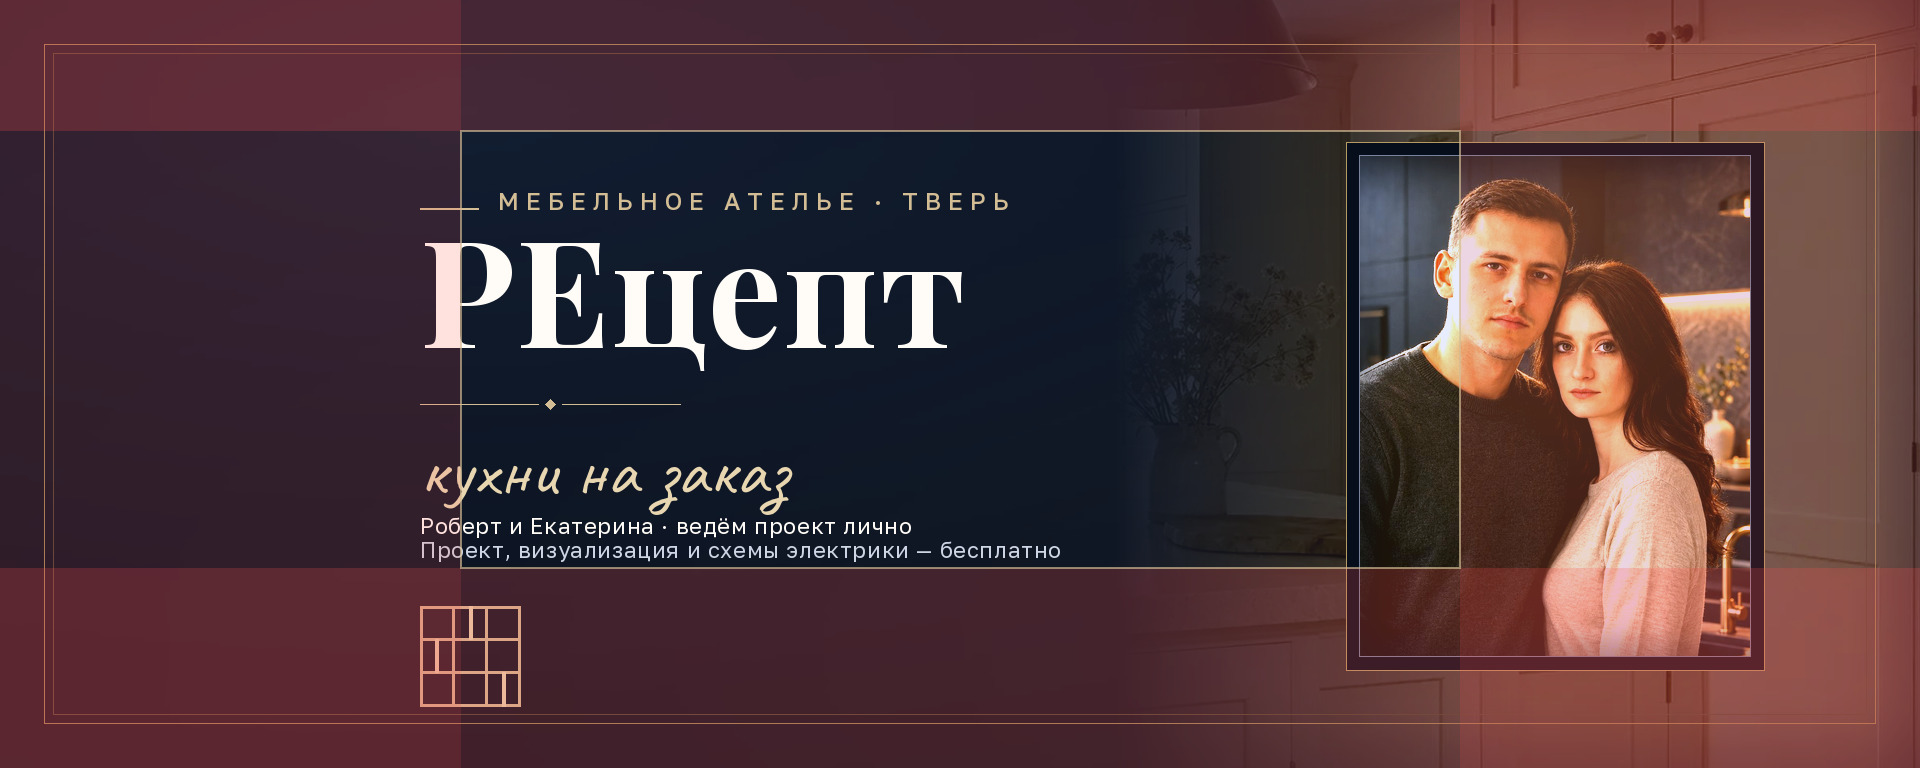
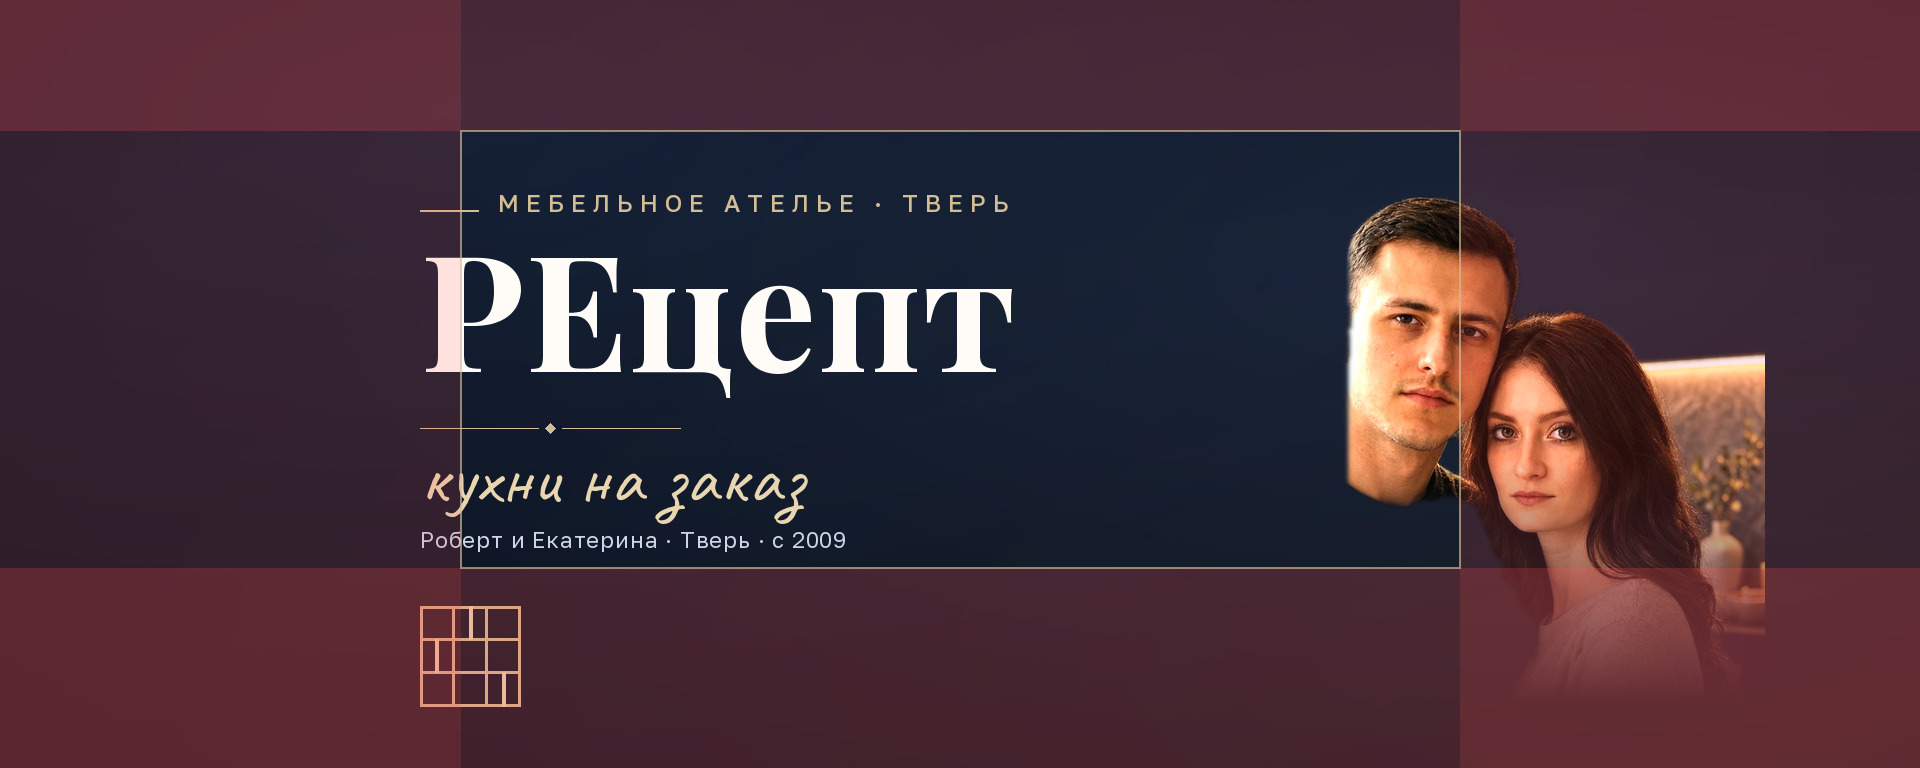
Обложка: вы вписаны в поле, без рамки и пластины
Прямоугольная пластина с золотым кантом читалась как вклеенная наклейка.
Теперь вы вырезаны из фона и стоите прямо в поле: силуэт книзу раство-
ряется, а не обрезается краем холста. Замер низа — 24,5 против 84 на
головах: вы действительно уходите в поле, а не стоите на нём плашкой.

Фон вырезается GrabCut (tools/cutout.py). Сегментационные модели в этой
песочнице недоступны — их раздают с закрытых хостов, — поэтому режем
алгоритмически и чистим маску морфологией. Контроль качества: внутри
маски яркость 98, снаружи 22.

Обложка разгружена. Было шесть текстовых элементов, осталось четыре:
надзаголовок, «РЕцепт» плотной антиквой крупнее прежнего (162 вместо
148), рукописная строка и одна подпись. Обложка в ВК показывается
мелко, поэтому 22-й кегль с гарантиями там не читался вовсе.

За вами добавлен холодный ореол — он отделяет фигуры от поля без вся-
кой рамки. Поле вокруг остаётся глубоким: 19–37 по яркости.

diff --git a/tools/make_pack.py b/tools/make_pack.py
@@ -408,51 +408,47 @@ def make_cover():
 
     base = ink_field((w, h))
 
-    # кухня остаётся фоном: приглушённая, вплавляется в поле слева направо
-    snap = photo('kitchens/kitchen-11@2x.webp', (w, h), bright=0.62, focus=(0.62, 0.45))
-    snap = grade(snap, contrast=1.14, color=1.06)
-    snap = vignette(snap, strength=0.34)
-    base.paste(snap, (0, 0), fade_mask((w, h), start=0.58, end=0.80, power=1.0))
+    # холодный ореол за фигурами — отделяет вас от поля, не рисуя рамки
+    base = warm_glow(base, cx=0.78, cy=0.34, color=(58, 74, 116), strength=0.22, falloff=3.0)
 
-    # вы — вклеенная пластина справа: тёмное паспарту и золотой волосяной кант
-    pw, ph = 390, 500
-    px, py = 1360, 156
-    mount = 14
-    plate = photo('team/new/rob-kate-novye.jpg', (pw, ph), bright=1.5, focus=(0.5, 0.26))
-    plate = grade(plate, contrast=1.16, color=1.08)
-    plate = warm_glow(plate, cx=0.5, cy=0.12, color=(255, 206, 140), strength=0.20, falloff=2.4)
-    plate = vignette(plate, strength=0.14)
-    base.paste(Image.new('RGB', (pw + mount * 2, ph + mount * 2), ABYSS),
-               (px - mount, py - mount))
-    base.paste(plate, (px, py))
+    # вы вписаны в обложку: ни пластины, ни рамки. Фигура стоит в поле и
+    # книзу растворяется в нём, а не обрезается краем холста.
+    cut = Image.open(os.path.join(SRC, 'team/new/rob-kate-novye-bez-fona.png')).convert('RGBA')
+    scale = 0.714
+    cw, ch = int(cut.width * scale), int(cut.height * scale)
+    cut = cut.resize((cw, ch), Image.LANCZOS)
+    cut_rgb = ImageEnhance.Brightness(cut.convert('RGB')).enhance(1.35)
+    cut_rgb.putalpha(cut.getchannel('A'))
+    cut = cut_rgb
+
+    top = 95
+    left = 1217
+    fade_from, fade_to = 460, 700          # в координатах холста
+    melt = ImageChops.invert(vertical_fade((cw, ch),
+                                           start=(fade_from - top) / ch,
+                                           end=(fade_to - top) / ch, power=1.0))
+    cut.putalpha(ImageChops.multiply(cut.getchannel('A'), melt))
+    base.paste(cut, (left, top), cut)
 
     d = ImageDraw.Draw(base)
 
-    # кант пластины: золото по внешнему краю, холодная нить по самому кадру
-    d.rectangle([px - mount, py - mount, px + pw + mount, py + ph + mount],
-                outline=GOLDLINE, width=1)
-    d.rectangle([px - 1, py - 1, px + pw, py + ph], outline=(120, 132, 158), width=1)
-
-    inner_frame(d, w, h, 44, GOLDLINE, width=1)
-
     # надзаголовок с золотым штрихом слева — как на сайте
-    rule(d, x_text, x_text + 58, 208, GOLD_ON_DARK, 1)
-    draw_text(d, (x_text + 78, 210), 'МЕБЕЛЬНОЕ АТЕЛЬЕ · ТВЕРЬ', 'sans-medium', 24,
+    rule(d, x_text, x_text + 58, 210, GOLD_ON_DARK, 1)
+    draw_text(d, (x_text + 78, 212), 'МЕБЕЛЬНОЕ АТЕЛЬЕ · ТВЕРЬ', 'sans-medium', 24,
               GOLD_ON_DARK, tracking=7)
 
-    # плотная антиква — основа, рукописная строка — её противоположность
-    draw_text(d, (x_text, 348), BRAND, 'display', 148, CREAM, tracking=1)
+    # обложка читается мелко и быстро, поэтому здесь только крупное:
+    # плотная антиква и одна рукописная строка ей в противовес
+    draw_text(d, (x_text, 372), BRAND, 'display', 162, CREAM, tracking=1)
 
-    ornament_rule(d, x_text, 404, 260, GOLD_ON_DARK, diamond=5)
+    ornament_rule(d, x_text, 428, 260, GOLD_ON_DARK, diamond=5)
 
-    draw_text(d, (x_text, 494), 'кухни на заказ', 'script', 72, GOLD_LIGHT, tracking=1)
+    draw_text(d, (x_text, 502), 'кухни на заказ', 'script', 74, GOLD_LIGHT, tracking=1)
 
-    draw_text(d, (x_text, 534), 'Роберт и Екатерина · ведём проект лично',
-              'sans', 22, CREAM, tracking=0.6)
-    draw_text(d, (x_text, 558), 'Проект, визуализация и схемы электрики — бесплатно',
-              'sans', 22, CREAM_DIM, tracking=0.6)
+    draw_text(d, (x_text, 548), 'Роберт и Екатерина · Тверь · с 2009',
+              'sans', 22, CREAM_DIM, tracking=0.8)
 
-    # знак справа, в зоне фотографии
+    # знак — внизу слева, в поле: он больше не спорит с портретом
     draw_mark(d, (x_text, 606, x_text + 100, 706), color=GOLDSOFT, accent=GOLD_LIGHT, lw=3)
 
     save(base, os.path.join(OUT, '01-oblozhka', 'oblozhka-1920x768.jpg'))

diff --git a/tools/cutout.py b/tools/cutout.py
@@ -1,0 +1,91 @@
+#!/usr/bin/env python3
+# -*- coding: utf-8 -*-
+"""
+ВЫРЕЗАНИЕ ФОНА (GrabCut)
+========================
+Модели сегментации в этой песочнице недоступны — они скачиваются с хостов,
+которые закрыты. Поэтому режем по-старому: GrabCut из OpenCV плюс чистка
+маски морфологией. Результат — PNG с альфой, дальше обложка сама решает,
+куда и как его вписывать.
+
+    python3 tools/cutout.py
+"""
+
+import os
+import sys
+
+import cv2
+import numpy as np
+from PIL import Image
+
+ROOT = os.path.dirname(os.path.dirname(os.path.abspath(__file__)))
+SRC = os.path.join(ROOT, 'tools', 'src')
+
+# Прямоугольник-подсказка: примерно где стоят люди. Всё, что уверенно фон
+# (левые и верхние углы кадра), GrabCut помечает сам.
+HINT = {
+    'team/new/rob-kate-novye.jpg': (0.24, 0.07, 1.0, 1.0),
+}
+
+
+def grab(name, hint=None):
+    path = os.path.join(SRC, name)
+    bgr = cv2.imread(path, cv2.IMREAD_COLOR)
+    if bgr is None:
+        raise SystemExit(f'не открылось: {path}')
+    h, w = bgr.shape[:2]
+
+    if hint is None:
+        hint = HINT.get(name, (0.12, 0.06, 0.88, 0.98))
+    x0 = int(w * hint[0]); y0 = int(h * hint[1])
+    x1 = int(w * hint[2]); y1 = int(h * hint[3])
+    rect = (max(0, x0), max(0, y0), min(w, x1) - max(0, x0), min(h, y1) - max(0, y0))
+
+    mask = np.zeros((h, w), np.uint8)
+    bgd = np.zeros((1, 65), np.float64)
+    fgd = np.zeros((1, 65), np.float64)
+
+    # несколько проходов: первый черновой, дальше алгоритм уточняет границу
+    for _ in range(4):
+        cv2.grabCut(bgr, mask, rect, bgd, fgd, 3, cv2.GC_INIT_WITH_RECT)
+        cv2.grabCut(bgr, mask, None, bgd, fgd, 3, cv2.GC_INIT_WITH_MASK)
+
+    alpha = np.where((mask == cv2.GC_FGD) | (mask == cv2.GC_PR_FGD), 255, 0).astype(np.uint8)
+
+    # убираем мусор и сглаживаем край
+    k = np.ones((7, 7), np.uint8)
+    alpha = cv2.morphologyEx(alpha, cv2.MORPH_OPEN, k)
+    alpha = cv2.morphologyEx(alpha, cv2.MORPH_CLOSE, np.ones((15, 15), np.uint8))
+
+    # оставляем только самую крупную связную область — люди одни
+    n, lab, stats, _ = cv2.connectedComponentsWithStats(alpha, 8)
+    if n > 1:
+        biggest = 1 + int(np.argmax(stats[1:, cv2.CC_STAT_AREA]))
+        alpha = np.where(lab == biggest, 255, 0).astype(np.uint8)
+
+    # мягкий край: жёсткая граница сразу выдаёт вырезку
+    alpha = cv2.GaussianBlur(alpha, (0, 0), 3)
+
+    rgb = cv2.cvtColor(bgr, cv2.COLOR_BGR2RGB)
+    out = Image.fromarray(rgb, 'RGB').convert('RGBA')
+    out.putalpha(Image.fromarray(alpha))
+    return out
+
+
+def report(img):
+    a = np.asarray(img.getchannel('A'))
+    ys, xs = np.where(a > 40)
+    if len(xs) == 0:
+        return 'маска пустая — вырезание не удалось'
+    h, w = a.shape
+    return (f'люди занимают x {xs.min()}…{xs.max()} из {w}, y {ys.min()}…{ys.max()} из {h}; '
+            f'плотных пикселей {100.0 * (a > 200).mean():.1f}% кадра')
+
+
+if __name__ == '__main__':
+    for name in HINT:
+        img = grab(name)
+        dst = os.path.join(SRC, name.replace('.jpg', '-bez-fona.png'))
+        img.save(dst)
+        print(f'{os.path.relpath(dst, ROOT)}')
+        print(f'   {report(img)}')
